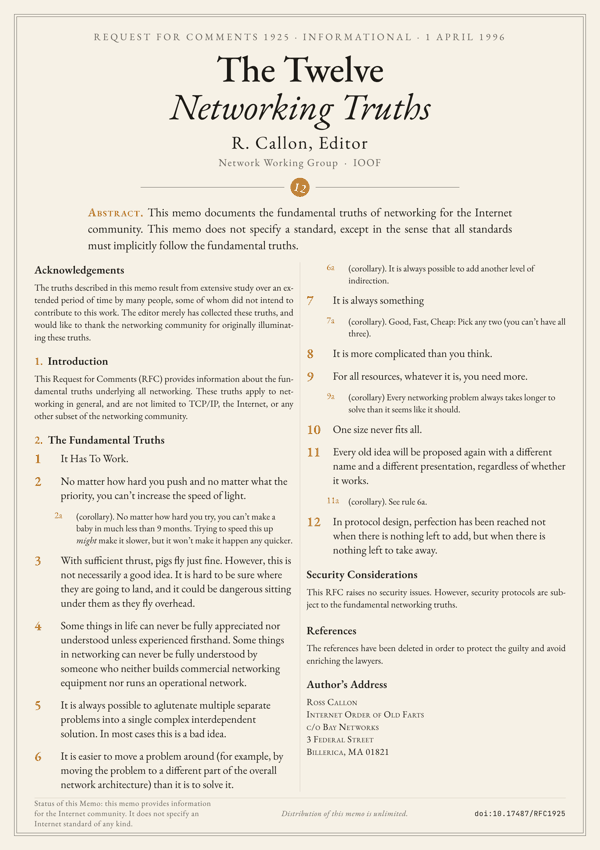
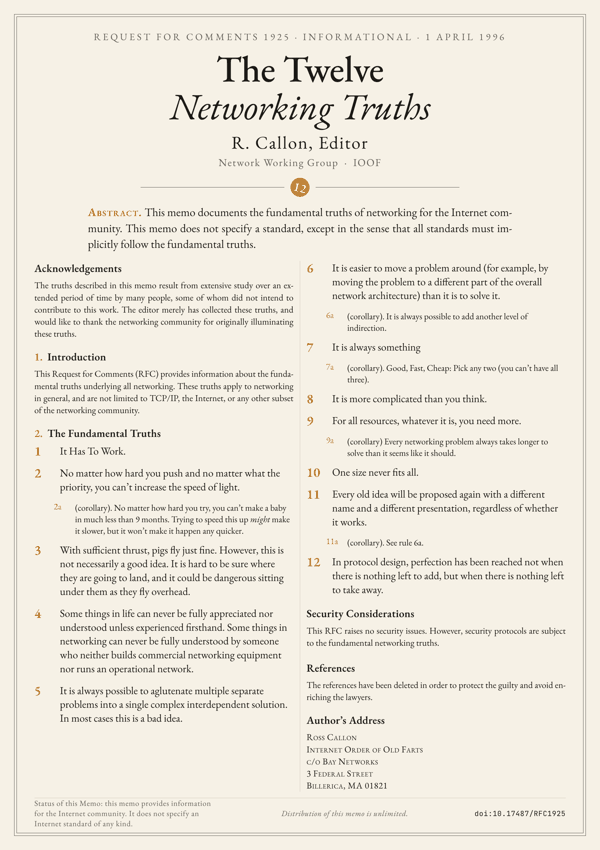
feat(engine): centered layout for short texts, keep item groups together
Phase 1 of the engine evolution: languages and short texts.

- lang: already set on <html> since the previous commit; checked that
  Chromium hyphenates French and German as well, and documented it
- layout: centered, for short texts: one column unless columns says
  otherwise, the text keeps its natural height and sits in the middle
  of the page. max_font caps the body size; reaching the cap is
  expected, so it raises no warning
- A labelled sub-item such as (6a) now shares a break-avoiding group
  with its item, so columns never separate them
- New poster: PEP 20, The Zen of Python (public domain), centered

Fix found on the way: Chromium lays out a font size with the font of a
previous size less than about 0.01 px away, so the binary search could
measure a candidate with the wrong glyph widths and settle on a size
that overflows a freshly loaded page (rfc-1925 at 50x70 did). The
search now only tries whole hundredths of a point, and the result is
checked again on a fresh page. The scratch PDF is now per paper, so
that make -j cannot mix two papers.

Effect on the existing posters, compared with PNGs rasterized at
40 dpi before the change:
- bitcoin: 50x70 and 60x80 byte-identical; A goes from 12.25 to
  12.26 pt with the corrected search, a small reflow of the text
- rfc-1925: truth 6 and its corollary 6a now start column 2 together,
  which leaves space at the bottom of column 1; the body goes from
  26.08 to 25.32 pt (A), 25.66 to 25.01 (50x70), 24.21 to 24.22 (60x80)

Changed region(s): [[0.06, 0.2447, 0.87, 0.9482], [0.51, 0.3059, 0.96, 0.9482]]

diff --git a/engine/template.html b/engine/template.html
@@ -1,4 +1,4 @@
-<!doctype html><html lang="{{LANG}}" data-theme="{{THEME_NAME}}"><head><meta charset="utf-8">
+<!doctype html><html lang="{{LANG}}" data-theme="{{THEME_NAME}}" data-layout="{{LAYOUT}}"><head><meta charset="utf-8">
 <link rel="stylesheet" href="{{NM}}/katex/dist/katex.min.css">
 <link rel="stylesheet" href="{{NM}}/@fontsource/eb-garamond/400.css">
 <link rel="stylesheet" href="{{NM}}/@fontsource/eb-garamond/400-italic.css">
@@ -28,10 +28,14 @@ h1 em{font-style:italic;font-weight:400}
 .abs{max-width:420mm;margin:0 auto 9mm;text-align:justify;font-size:calc(var(--fs)*1.28);line-height:1.38;hyphens:auto}
 .abs b{font-variant:small-caps;letter-spacing:.06em;font-weight:600;color:var(--acc)}
 main{column-count:var(--cols);column-gap:13mm;column-rule:.2mm solid var(--rule);column-fill:balance;text-align:justify;hyphens:auto;flex:1;min-height:0}
+.flow{display:contents}
+/* layout: centered, for short texts: the text keeps its natural height, in the middle of main */
+[data-layout=centered] main{column-count:auto;display:flex;flex-direction:column;justify-content:safe center}
+[data-layout=centered] .flow{display:block;column-count:var(--cols);column-gap:13mm;column-rule:.2mm solid var(--rule);column-fill:balance}
 p{margin:0 0 .55em;text-indent:0}
 h2{font-weight:600;font-size:calc(var(--fs)*1.2);margin:.9em 0 .35em;break-after:avoid;letter-spacing:.01em;hyphens:manual}
 h2 .n{color:var(--acc);margin-right:.2em}
-main>h2:first-child{margin-top:0}
+.flow>h2:first-child{margin-top:0}
 cite{font-style:normal;color:var(--mute)}
 figure{margin:.8em 0 1em;break-inside:avoid}
 svg.fig{width:100%;height:auto;display:block;overflow:visible}
@@ -68,6 +72,7 @@ footer .mono{font-family:'JetBrains Mono',monospace;font-size:.9em;color:var(--i
 footer>div:nth-child(2){text-align:center}
 svg .mk{fill:var(--ink)}svg .mko{fill:var(--acc)}.katex{color:var(--ink)}
 .item{display:grid;grid-template-columns:2.2em 1fr;gap:.2em;margin:0 0 .6em;break-inside:avoid;text-align:left;hyphens:manual}
+.group{break-inside:avoid}
 .item .lbl{color:var(--acc);font-weight:600}
 .item.sub{margin-left:2.2em;font-size:.92em}.item.sub .lbl{font-weight:400}
 code{font-family:'JetBrains Mono',monospace;font-size:.85em}
@@ -78,7 +83,9 @@ ul{margin:.2em 0 .7em;padding-left:1.2em}
 <div class="page">
 {{HEADER}}
 <main>
+<div class="flow">
 {{BODY}}
+</div>
 </main>
 {{FOOTER}}
 </div>

diff --git a/papers/zen-of-python/style.css b/papers/zen-of-python/style.css
@@ -1,0 +1,9 @@
+/* One aphorism per line, centered like a poem */
+main{text-align:center}
+.kick{letter-spacing:.2em}
+.abs{font-size:calc(var(--fs)*.8)}
+.zen p{margin:0 0 .3em;hyphens:manual}
+/* Easter egg and reference: a quiet colophon under the aphorisms */
+.colophon{font-size:.5em;margin-top:2.2em;color:var(--mute)}
+.colophon h2{font-size:1.1em;margin:1.2em 0 .3em}
+.colophon pre.code{display:inline-block;text-align:left;font-size:1.1em;margin:0}

diff --git a/engine/build.py b/engine/build.py
@@ -6,7 +6,7 @@
     python3 engine/build.py rfc-1925 --formats A --themes white genesis
     python3 engine/build.py --check         # fit every poster and report problems, no output
 """
-import argparse, importlib.util, io, json, math, pathlib, re, subprocess, sys
+import argparse, importlib.util, io, json, pathlib, re, subprocess, sys
 import yaml
 from PIL import Image
 from playwright.sync_api import sync_playwright
@@ -26,8 +26,9 @@ PX = 96 / 25.4  # CSS pixels per mm
 CHROMIUM_ARGS = ["--font-render-hinting=none"]
 BUNDLED_FONTS = ("EBGaramond", "JetBrainsMono", "KaTeX_")  # PostScript names of the node_modules fonts
 META_KEYS = {"title", "title_html", "title_size", "kicker", "author", "byline", "emblem", "abstract",
-             "abstract_label", "numbered", "columns", "header_scale", "font_range", "footer", "lang",
-             "license"}
+             "abstract_label", "numbered", "columns", "header_scale", "font_range", "max_font", "layout",
+             "footer", "lang", "license"}
+LAYOUTS = ("columns", "centered")  # centered: short texts, one column by default, vertically centered
 WARNINGS = []
 
 class BuildError(Exception):
@@ -51,6 +52,10 @@ def load_meta(paper_dir):
     if not (isinstance(fr, list) and len(fr) == 2 and all(isinstance(v, (int, float)) for v in fr)
             and 0 < fr[0] < fr[1]):
         errors.append("font_range must be [min, max] in pt")
+    elif not isinstance(m.get("max_font", fr[1]), (int, float)) or m.get("max_font", fr[1]) <= fr[0]:
+        errors.append("max_font must be a size in pt above the minimum of font_range")
+    if m.get("layout", "columns") not in LAYOUTS:
+        errors.append(f"layout must be one of {', '.join(LAYOUTS)}")
     if errors:
         raise BuildError(f"{rel(path)}: {'; '.join(errors)}")
     return m
@@ -108,8 +113,9 @@ def poster(paper_dir, m):
         body = body.replace(f"<!--MATH:{i}-->", h)
     css = paper_dir / "style.css"
     tpl = (ENGINE / "template.html").read_text()
-    values = {"HEADER": header_html(m), "FOOTER": footer_html(m), "BODY": body,
-              "COLS": m.get("columns", 4), "HS": m.get("header_scale", 1),
+    layout = m.get("layout", "columns")
+    values = {"HEADER": header_html(m), "FOOTER": footer_html(m), "BODY": body, "LAYOUT": layout,
+              "COLS": m.get("columns", 1 if layout == "centered" else 4), "HS": m.get("header_scale", 1),
               "TITLE_SIZE": m.get("title_size", "76pt"), "LANG": m.get("lang", "en"),
               "EXTRA_CSS": css.read_text() if css.exists() else "",
               "NM": (ROOT / "node_modules").as_uri()}
@@ -145,20 +151,23 @@ def fits(page, fs):
     """Whether the text fits on the loaded page at body size fs (pt)."""
     return page.evaluate(FITS_JS, fs)
 
-def best_font(page, lo, hi, what):
-    """Largest body size (pt, to 0.01) at which the text still fits on the loaded page."""
-    if not fits(page, lo):
-        raise BuildError(f"{what}: the text overflows even at {lo} pt, lower font_range in meta.yaml")
-    if fits(page, hi):
-        warn(f"{what}: the text still fits at {hi} pt and leaves space, raise font_range in meta.yaml")
-        return hi
-    while hi - lo > 0.01:
-        mid = (lo + hi) / 2
-        if fits(page, mid): lo = mid
+def best_font(page, lo, hi, what, capped):
+    """Largest body size at which the text still fits on the loaded page, in whole hundredths
+    of a point. When capped, hi is a deliberate ceiling and reaching it is not a problem.
+    Chromium lays a size out with the font of a previous size less than about 0.01 px away,
+    so candidates that are not on a 0.01 pt grid can be measured with the wrong glyph widths."""
+    lo, hi = round(lo * 100), round(hi * 100)
+    if not fits(page, lo / 100):
+        raise BuildError(f"{what}: the text overflows even at {lo / 100} pt, lower font_range in meta.yaml")
+    if fits(page, hi / 100):
+        if not capped:
+            warn(f"{what}: the text still fits at {hi / 100} pt and leaves space, raise font_range in meta.yaml")
+        return hi / 100
+    while hi - lo > 1:
+        mid = (lo + hi) // 2
+        if fits(page, mid / 100): lo = mid
         else: hi = mid
-    # lo was measured, its rounding was not: layout is not strictly monotonic in the size
-    fs = math.floor(lo * 100) / 100
-    return fs if fits(page, fs) else lo
+    return lo / 100
 
 def font_name(font):
     """PostScript name of a PDF font without its subset tag. Chromium embeds some glyphs
@@ -204,17 +213,29 @@ def build(paper, formats, themes, page, previews, check):
     paper_dir = ROOT / "papers" / paper
     m = load_meta(paper_dir)
     html = poster(paper_dir, m)
-    tmp, raw = ROOT / "build" / f"{paper}.html", ROOT / "build" / "raw.pdf"
+    tmp, raw = ROOT / "build" / f"{paper}.html", ROOT / "build" / f"{paper}.pdf"  # per paper, for make -j
     tmp.parent.mkdir(exist_ok=True)
     out = ROOT / "dist" / paper
     lo, hi = m.get("font_range", [8, 40])
+    hi = m.get("max_font", hi)
+    capped = "max_font" in m or m.get("layout") == "centered"
     for fmt in formats:
         W, H = FORMATS[fmt]
         height = DESIGN_W * H / W
         page.set_viewport_size({"width": round(DESIGN_W * PX), "height": round(height * PX)})
         load(page, tmp, html(themes[0], height, lo))
-        fs = best_font(page, lo, hi, f"{paper} {fmt}")
-        print(f"{paper} {fmt}: body {fs:.2f} pt at design size ({printed(fmt, fs)})")
+        fs = best_font(page, lo, hi, f"{paper} {fmt}", capped)
+        # the search page keeps the fonts of every size it tried: settle on a size that also
+        # fits a freshly loaded page, like the ones that get printed
+        for _ in range(100):
+            load(page, tmp, html(themes[0], height, fs))
+            if fits(page, fs):
+                break
+            fs = round(fs - 0.01, 2)
+        else:
+            raise BuildError(f"{paper} {fmt}: no body size fits a freshly loaded page")
+        cap = ", the cap" if capped and fs == hi else ""
+        print(f"{paper} {fmt}: body {fs:.2f} pt at design size{cap} ({printed(fmt, fs)})")
         for i, th in enumerate(themes):
             load(page, tmp, html(th, height, fs))
             if not fits(page, fs):

diff --git a/engine/markdown.py b/engine/markdown.py
@@ -7,7 +7,8 @@ Blocks (separated by blank lines):
   ```lang ... ```            code block, may contain blank lines
   1. item                    ordered list (after "## References": reference list)
   - item                     unordered list
-  (1) text / (2a) text       labelled items (sub-items when the label ends with a letter)
+  (1) text / (2a) text       labelled items; a label ending with a letter makes a sub-item,
+                             kept in the same column as the item before it
   <html ...>                 raw HTML, passed through
   anything else              paragraph
 Inline: **bold**, *italic*, `code`, [n] / [n-m] citations, smart quotes.
@@ -115,8 +116,15 @@ def render(text, figures=None, numbered=False):
             out.append('<ul>' + ''.join(f'<li>{inline(x[2:])}</li>' for x in items) + '</ul>')
         elif LABEL.match(b):
             for lab, body in re.findall(r'^\((\d+[a-z]?)\)\s+(.*?)(?=^\(\d+[a-z]?\)\s|\Z)', b, re.S | re.M):
-                sub = ' sub' if lab[-1].isalpha() else ''
-                out.append(f'<div class="item{sub}"><span class="lbl">{lab}</span><div>{inline(body)}</div></div>')
+                sub = lab[-1].isalpha()
+                item = f'<div class="item{" sub" if sub else ""}"><span class="lbl">{lab}</span><div>{inline(body)}</div></div>'
+                # a sub-item joins its item in a group that columns cannot split
+                if sub and out and out[-1].startswith('<div class="group">'):
+                    out[-1] = out[-1][:-len('</div>')] + item + '</div>'
+                elif sub and out and out[-1].startswith('<div class="item">'):
+                    out[-1] = f'<div class="group">{out[-1]}{item}</div>'
+                else:
+                    out.append(item)
         else:
             out.append(f'<p>{inline(b)}</p>')
     return '\n'.join(out), math

diff --git a/README.md b/README.md
@@ -20,6 +20,13 @@ Ross Callon, 1 April 1996. Large type, readable from across the room.
 |---|---|---|---|
 | ![](docs/rfc-1925-ivory.png) | ![](docs/rfc-1925-white.png) | ![](docs/rfc-1925-genesis.png) | ![](docs/rfc-1925-blueprint.png) |
 
+### PEP 20: The Zen of Python
+Tim Peters, 2004. The nineteen aphorisms, set as a typographic poster; comfortable down to A3.
+
+| ivory | white | genesis | blueprint |
+|---|---|---|---|
+| ![](docs/zen-of-python-ivory.png) | ![](docs/zen-of-python-white.png) | ![](docs/zen-of-python-genesis.png) | ![](docs/zen-of-python-blueprint.png) |
+
 ## Download
 
 Vector PDFs are in [`dist/<paper>/`](dist), named `<paper>-<format>-<theme>.pdf`. Text, equations and figures are all vector, so they print sharp at any size.
@@ -61,9 +68,20 @@ Create `papers/<name>/` with:
 | `figures.py` | optional: `FIGS = {"name": fn}`, each `fn()` returns an SVG string built with `engine/svg.py` |
 | `style.css` | optional: paper-specific CSS; a rule on `:root[data-theme=genesis]` applies to one theme only |
 
-In `text.md`, `::: figure <name>` inserts a figure, `$$ … $$` is rendered with KaTeX, `(1)` / `(1a)` makes labelled items, and raw HTML passes through. Mistakes are reported with their line number.
+In `text.md`, `::: figure <name>` inserts a figure, `$$ … $$` is rendered with KaTeX, `(1)` / `(1a)` makes labelled items (a sub-item such as `(1a)` stays in the same column as its item), and raw HTML passes through. Mistakes are reported with their line number.
 
-In `meta.yaml`, `title` and `license` are required and unknown keys are rejected. `lang` (default `en`) sets the hyphenation language, and `font_range` (default `[8, 40]`, in pt) bounds the search for the body size.
+In `meta.yaml`, `title` and `license` are required and unknown keys are rejected. The optional keys:
+
+| Key | Default | Effect |
+|---|---|---|
+| `lang` | `en` | language of the text, for hyphenation (English, French, German and many more) |
+| `layout` | `columns` | `centered` suits short texts: one column unless `columns` says otherwise, vertically centered on the page |
+| `columns` | 4, or 1 when centered | number of text columns |
+| `font_range` | `[8, 40]` | bounds of the search for the body size, in pt; the build warns when the text still fits at the maximum |
+| `max_font` | none | hard cap on the body size, in pt, so that a short text does not end up in giant type; reaching it is expected |
+| `numbered` | `false` | number the `##` sections |
+| `title_html`, `title_size`, `header_scale` | `title`, `76pt`, `1` | title with HTML markup, its size, and the scale of the other header lines |
+| `kicker`, `author`, `byline`, `emblem`, `abstract`, `abstract_label`, `footer` | | header and footer content (see existing papers) |
 
 Every character must come from the bundled fonts (EB Garamond, JetBrains Mono, KaTeX), since a system font would make the PDF depend on the machine. `make check` names the characters that fall back; `papers/bitcoin/style.css` shows the fix, taking ₿ from JetBrains Mono.
 
@@ -71,7 +89,7 @@ Only add texts whose license allows redistribution, and record it in `meta.yaml`
 
 ## How it works
 
-`engine/build.py` parses the Markdown, pre-renders math with KaTeX, injects SVG figures into an HTML template, then drives headless Chromium: for each format it waits for the fonts, binary-searches the largest body size that fits (to 0.01 pt), prints a PDF at a fixed 594 mm design width, and scales it to the target format with pypdf, keeping the page vector and its content losslessly compressed. Themes are sets of CSS variables in `engine/themes.py`.
+`engine/build.py` parses the Markdown, pre-renders math with KaTeX, injects SVG figures into an HTML template, then drives headless Chromium: for each format it waits for the fonts, binary-searches the largest body size that fits in whole hundredths of a point, checks it again on a freshly loaded page, prints a PDF at a fixed 594 mm design width, and scales it to the target format with pypdf, keeping the page vector and its content losslessly compressed. Themes are sets of CSS variables in `engine/themes.py`.
 
 ## License
 

diff --git a/papers/zen-of-python/text.md b/papers/zen-of-python/text.md
@@ -1,0 +1,55 @@
+<div class="zen">
+
+Beautiful is better than ugly.
+
+Explicit is better than implicit.
+
+Simple is better than complex.
+
+Complex is better than complicated.
+
+Flat is better than nested.
+
+Sparse is better than dense.
+
+Readability counts.
+
+Special cases aren't special enough to break the rules.
+
+Although practicality beats purity.
+
+Errors should never pass silently.
+
+Unless explicitly silenced.
+
+In the face of ambiguity, refuse the temptation to guess.
+
+There should be one-- and preferably only one --obvious way to do it.
+
+Although that way may not be obvious at first unless you're Dutch.
+
+Now is better than never.
+
+Although never is often better than &#42;right&#42; now.
+
+If the implementation is hard to explain, it's a bad idea.
+
+If the implementation is easy to explain, it may be a good idea.
+
+Namespaces are one honking great idea -- let's do more of those!
+
+</div>
+
+<div class="colophon">
+
+## Easter Egg
+
+```pycon
+>>> import this
+```
+
+## References
+
+Originally posted to comp.lang.python/python-list@python.org under a thread called "The Way of Python"<br>https://groups.google.com/d/msg/comp.lang.python/B_VxeTBClM0/L8W9KlsiriUJ
+
+</div>
